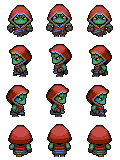
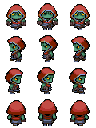
gen boss

diff --git a/src/creature/monster/MonsterGen.java b/src/creature/monster/MonsterGen.java
@@ -16,6 +16,7 @@ import creature.hero.Hero;
 import creature.hero.Knight;
 import creature.hero.Magician;
 import drawing.field.BattleField;
+import drawing.manager.SceneManager;
 import javafx.scene.image.Image;
 import javafx.scene.input.KeyCode;
 import main.Main;
@@ -26,7 +27,9 @@ public class MonsterGen {
 	private int monsterCount;
 	private int maxMonster;
 	private int dunLvl;
-	
+	private Monster darkLord;
+	private Monster viper;
+	private Monster witch;
 	public MonsterGen() {
 		monsterCount = 0;
 		maxMonster = 10;
@@ -142,22 +145,44 @@ public class MonsterGen {
 			hero = col > 1 ? new Archer() : new Knight();
 		}
 		for (int i = 0; i < time; i++) {
-			BattleField.addEntities(new Monster(monsterImg(RandomUtility.randomInt(0, 4)), row, col, speed, mass, hp * ((dunLvl / 20) + 1), Math.max(
+			BattleField.addEntities(new Monster(ResourceLoader.monsterImage[img-1], row, col, speed, mass, hp * ((dunLvl / 20) + 1), Math.max(
 					(int) ((((2 - img % 3) / 3.0 * 300.0) + 13 * (col * img) + 6 * (row) + hp / 1377.0 * 400) / 2), 15),
 					hero, idle, (1 + img % 3), (3 - img % 3) * 300, speed * (3 - img % 3) * 40,
 					(int) ((hp / Constant.BOUNTY_MULTIPLYER * dunLvl)
 							+ ((9 - ((4 - col) / (row + 1)) - (mass / 2000.0))) * 3 + (img - 1) * 50),
 					size));
-			monsterCount += size;
+			monsterCount += 1;
+		}
+		if(dunLvl == 10&& monsterCount==maxMonster) {
+			BattleField.addEntities(new Monster(ResourceLoader.darklorde, row, col, speed,(int) 1.7*mass,1000, (int)1.7*Math.max(
+					(int) ((((2 - img % 3) / 3.0 * 300.0) + 13 * (col * img) + 6 * (row) + hp / 1377.0 * 400) / 2), 15),
+					hero, idle, (1 + img % 3), (3 - img % 3) * 300, speed * (3 - img % 3) * 40,
+					(int) ((hp / Constant.BOUNTY_MULTIPLYER * dunLvl)
+							+ ((9 - ((4 - col) / (row + 1)) - (mass / 2000.0))) * 3 + (img - 1) * 50),
+					1.5*size));
+		}else if(dunLvl == 7&& monsterCount==maxMonster) {
+			BattleField.addEntities(new Monster(ResourceLoader.witch, row, col, speed,(int)1.5*mass,500,(int)1.5* Math.max(
+					(int) ((((2 - img % 3) / 3.0 * 300.0) + 13 * (col * img) + 6 * (row) + hp / 1377.0 * 400) / 2), 15),
+					hero, idle, (1 + img % 3), (3 - img % 3) * 300, speed * (3 - img % 3) * 40,
+					(int) ((hp / Constant.BOUNTY_MULTIPLYER * dunLvl)
+							+ ((9 - ((4 - col) / (row + 1)) - (mass / 2000.0))) * 3 + (img - 1) * 50),
+					1.5*size));
+		}else if(dunLvl == 3&& monsterCount==maxMonster) {
+			BattleField.addEntities(new Monster(ResourceLoader.viper, row, col, speed, (int) 1.3*mass,200,(int) 1.3* Math.max(
+					(int) ((((2 - img % 3) / 3.0 * 300.0) + 13 * (col * img) + 6 * (row) + hp / 1377.0 * 400) / 2), 15),
+					hero, idle, (1 + img % 3), (3 - img % 3) * 300, speed * (3 - img % 3) * 40,
+					(int) ((hp / Constant.BOUNTY_MULTIPLYER * dunLvl)
+							+ ((9 - ((4 - col) / (row + 1)) - (mass / 2000.0))) * 3 + (img - 1) * 50),
+					1.5*size));
 		}
 	}
 
-	public void genByLvl(int img, int rand) {
+	public void genByLvl(int rand) {
 		if (rand < 0)
 			return;
 		for (int i = 0; i < rand; i++) {
 			int col = RandomUtility.random() % 4;
-			genMonster(img, (dunLvl % 10) > 5 ? 0 : col % 2, col, 1, i);
+			genMonster(RandomUtility.randomInt(0,4), (dunLvl % 10) > 5 ? 0 : col % 2, col, 1, i);
 		}
 	}
 
@@ -166,71 +191,21 @@ public class MonsterGen {
 		if (RenderableHolder.getInstance().size() >= 25)
 			return;
 		int rand = RandomUtility.randomByLevel(dunLvl) % 3 + 1;
-		if ((dunLvl % 7 == 0 && dunLvl != 0 && monsterCount > maxMonster - 10)
-				|| (dunLvl > 25 && rand + (RandomUtility.random()) % 4 == 1)) { // gen boss
-			if (dunLvl > 35) {
-				if (rand % 3 == 1) {
-					genMonster(3, 0, (rand % 2), 2, 1);
-					genMonster(rand, 0, rand, 2, 1);
-					genMonster(rand, 1, rand, 2, 1);
-				} else {
-					genMonster(3, 1, 2 + (rand % 2), 2, (rand % 2) + 2);
-				}
-				genMonster(4, 0, 2 + rand % 2, 1, 2);
-				genMonster(4, 0, rand, 1, 2);
-				genMonster(4, 1, 0, 1, 1);
-				genMonster(5, 1, rand % 2, 1, 1);
-			} else if (dunLvl > 30) {
-				if (rand % 3 == 0) {
-					genMonster(1, 1, rand, 2, 3);
-				} else if (rand % 3 == 1) {
-					genMonster(3, 0, (rand % 2), 1, 1);
-					genMonster(1, 0, rand, 2, 2);
-				} else {
-					genMonster(3, 0, 0, 1, 1);
-					genMonster(3, 0, 1, 1, 1);
-				}
-			} else if (dunLvl > 20) {
-				if (rand % 2 == 0)
-					genMonster(1, 1, rand, 2, 2);
-				else {
-					genMonster(3, 0, (rand % 2), 1, 1);
-					genMonster(2, 0, 1 + (rand % 2) * 2, 2, 1);
-				}
-			} else if (dunLvl > 10) {
-				genMonster(3, 0, (rand % 2), 1, 1);
-			} else if (dunLvl > 10) {
-				if (rand % 2 == 0)
-					genMonster(2, 0, 1 + (rand % 2) * 2, 2, 2);
-				else
-					genMonster(2, 1, 4, 2, 1);
-			} else {
-				genMonster(2, 0, 1, 2, 1);
-			}
-			monsterCount += 10;
-			return;
-		}
-		if (dunLvl > 35) {
-			genByLvl(3, 1);
-			genByLvl(2, rand - 1);
-		} else if (dunLvl > 30) {
-			genByLvl(3, rand - 3);
-			genByLvl(1, 2);
-			genByLvl(2, 1);
-		} else if (dunLvl > 20) {
-			genByLvl(1, rand - 1);
-			genByLvl(2, 1);
-		} else if (dunLvl > 10) {
-			genByLvl(1, rand % 2);
-			genByLvl(2, rand - 1);
-		} else if (dunLvl > 10) {
-			genByLvl(1, rand - 1);
-			genByLvl(2, 1);
+		if (dunLvl > 8) {
+			genByLvl(1);
+			genByLvl(rand - 1);
+		} else if (dunLvl > 6) {
+			genByLvl(rand - 3);
+			genByLvl(2);
+			genByLvl(1);
+		} else if (dunLvl > 4) {
+			genByLvl(rand - 1);
+			genByLvl(1);
+		} else if (dunLvl > 2) {
+			genByLvl(rand % 2);
+			genByLvl(rand - 1);
 		} else {
-			genByLvl(2, rand);
-		}
-		if (dunLvl % 13 == 0 && (RandomUtility.random()) % 73 == 1) {
-			genMonster(5, 1, rand % 2, 1, 1);
+			genByLvl(rand);
 		}
 	}
 }

diff --git a/src/creature/hero/Magician.java b/src/creature/hero/Magician.java
@@ -92,43 +92,43 @@ public class Magician extends Hero {
 						: attackRange.y;
 			}
 
-//			@Override
-//			public boolean isCollide(GameObject other, double x, double y) {
-//				boolean isMagicHit = false;
-//				if (GameLogic.heroInBat.getCurrentMp() > 5) {
-//					for (Entry<Pair, Pair> e : magicTime.entrySet()) {
-//						double a = 0, b = 0;
-//						if (e.getValue().x == Constant.ENTITY_FRONT) {
-//							a = e.getKey().x + (owner.getWidth() - magicW);
-//							b = e.getKey().y + e.getValue().y + owner.getHeight() / 3;
-//						} else if (e.getValue().x == Constant.ENTITY_BACK) {
-//							a = e.getKey().x + (owner.getWidth() - magicW);
-//							b = e.getKey().y - e.getValue().y;
-//						} else if (e.getValue().x == Constant.ENTITY_LEFT) {
-//							a = e.getKey().x - e.getValue().y - magicW / 2;
-//							b = e.getKey().y;
-//						} else if (e.getValue().x == Constant.ENTITY_RIGHT) {
-//							a = e.getKey().x + e.getValue().y;
-//							b = e.getKey().y;
-//						}
-//						if ((((a - other.getWidth()) <= other.getX())
-//								&& (other.getX() <= (a + magicW + other.getWidth())))
-//								&& (((b - other.getHeight()) <= other.getY())
-//										&& (other.getY() <= (b + other.getHeight() + magicH)))
-//								&& ((((a - other.getWidth()) <= (other.getX() + other.getWidth()))
-//										&& ((other.getX() + other.getWidth()) <= (a + magicW + other.getWidth())))
-//										&& (((b - other.getHeight()) <= (other.getY() + other.getHeight()))
-//												&& ((other.getY() + other.getHeight()) <= (b + other.getHeight()
-//														+ magicH)))))
-//							isMagicHit = true;
-//					}
-//				}
-//				if ((owner instanceof HeroInBat) && magicTime.size() == 0 && getAttackTime() == 0)
-//					return false;
-//				else if (owner.getAtkType().getAttackTime() == 0)
-//					return (super.isCollide(other, x, y) || isMagicHit);
-//				return isMagicHit;
-//			}
+			@Override
+			public boolean isCollide(GameObject other, double x, double y) {
+				boolean isMagicHit = false;
+				if (GameLogic.heroInBat.getCurrentMp() > 5) {
+					for (Entry<Pair, Pair> e : magicTime.entrySet()) {
+						double a = 0, b = 0;
+						if (e.getValue().x == Constant.ENTITY_FRONT) {
+							a = e.getKey().x + (owner.getWidth() - magicW);
+							b = e.getKey().y + e.getValue().y + owner.getHeight() / 3;
+						} else if (e.getValue().x == Constant.ENTITY_BACK) {
+							a = e.getKey().x + (owner.getWidth() - magicW);
+							b = e.getKey().y - e.getValue().y;
+						} else if (e.getValue().x == Constant.ENTITY_LEFT) {
+							a = e.getKey().x - e.getValue().y - magicW / 2;
+							b = e.getKey().y;
+						} else if (e.getValue().x == Constant.ENTITY_RIGHT) {
+							a = e.getKey().x + e.getValue().y;
+							b = e.getKey().y;
+						}
+						if ((((a - other.getWidth()) <= other.getX())
+								&& (other.getX() <= (a + magicW + other.getWidth())))
+								&& (((b - other.getHeight()) <= other.getY())
+										&& (other.getY() <= (b + other.getHeight() + magicH)))
+								&& ((((a - other.getWidth()) <= (other.getX() + other.getWidth()))
+										&& ((other.getX() + other.getWidth()) <= (a + magicW + other.getWidth())))
+										&& (((b - other.getHeight()) <= (other.getY() + other.getHeight()))
+												&& ((other.getY() + other.getHeight()) <= (b + other.getHeight()
+														+ magicH)))))
+							isMagicHit = true;
+					}
+				}
+				if ((owner instanceof HeroInBat) && magicTime.size() == 0 && getAttackTime() == 0)
+					return false;
+				else if (owner.getAtkType().getAttackTime() == 0)
+					return (super.isCollide(other, x, y) || isMagicHit);
+				return isMagicHit;
+			}
 
 		};
 	}

diff --git a/src/drawing/field/BattleField.java b/src/drawing/field/BattleField.java
@@ -85,8 +85,10 @@ public class BattleField extends Field {
 			} else
 				entities_holder.remove(e);
 		}
-		if (isLevelClear())
-			upLevel();
+		if (isLevelClear()) {
+			if(lvl > 10) SceneManager.BattleFieldScene.toDialog(2);
+			else upLevel();
+		}
 		if (lvlChangetimer > 0)
 			lvlChangetimer--;
 	}
